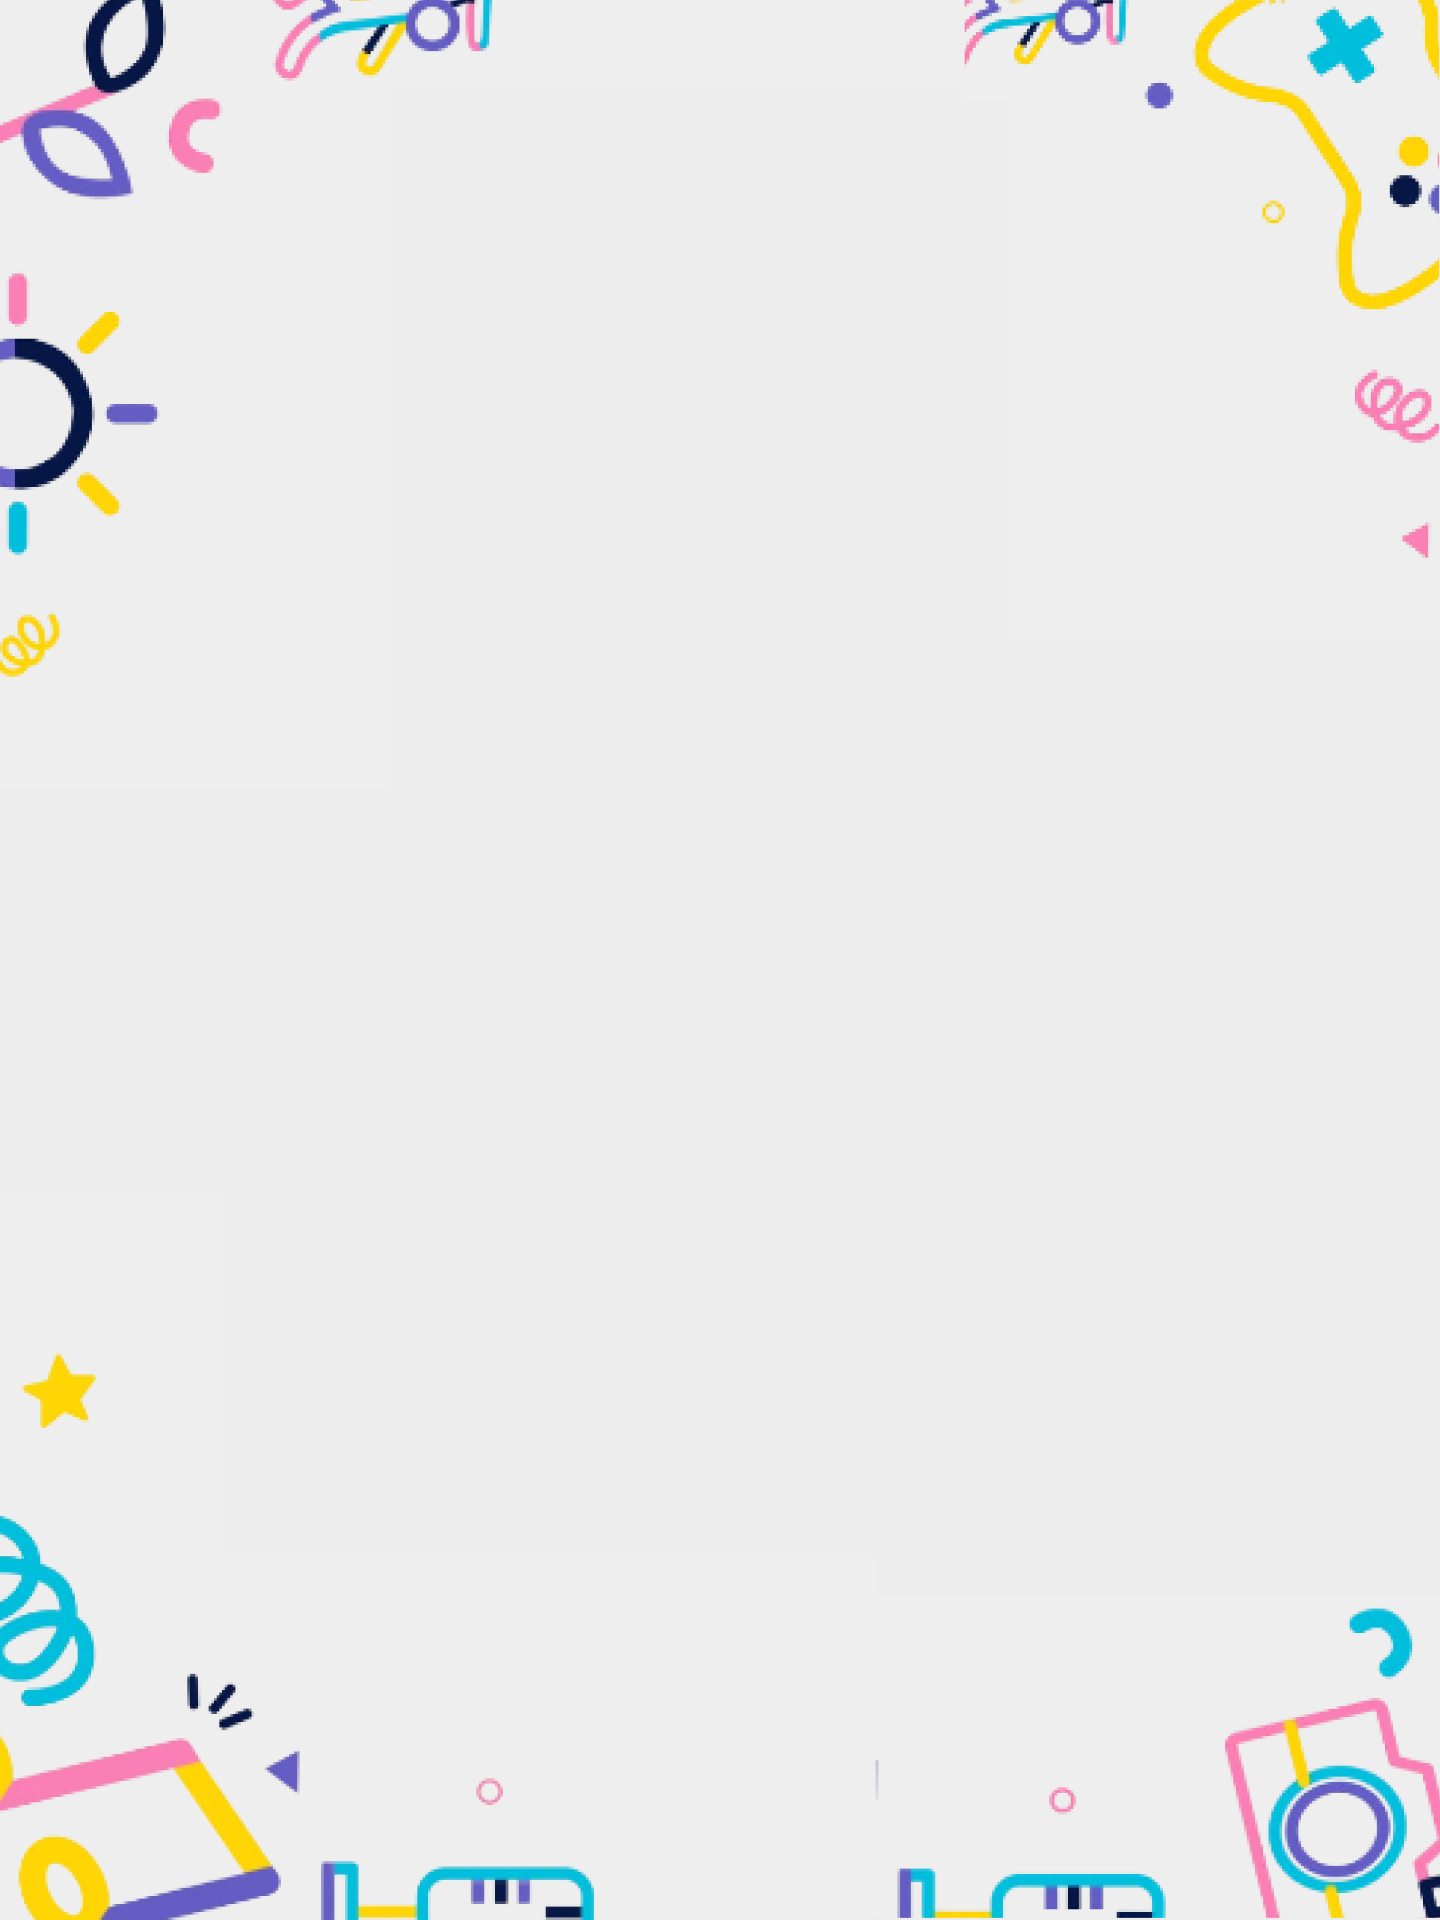
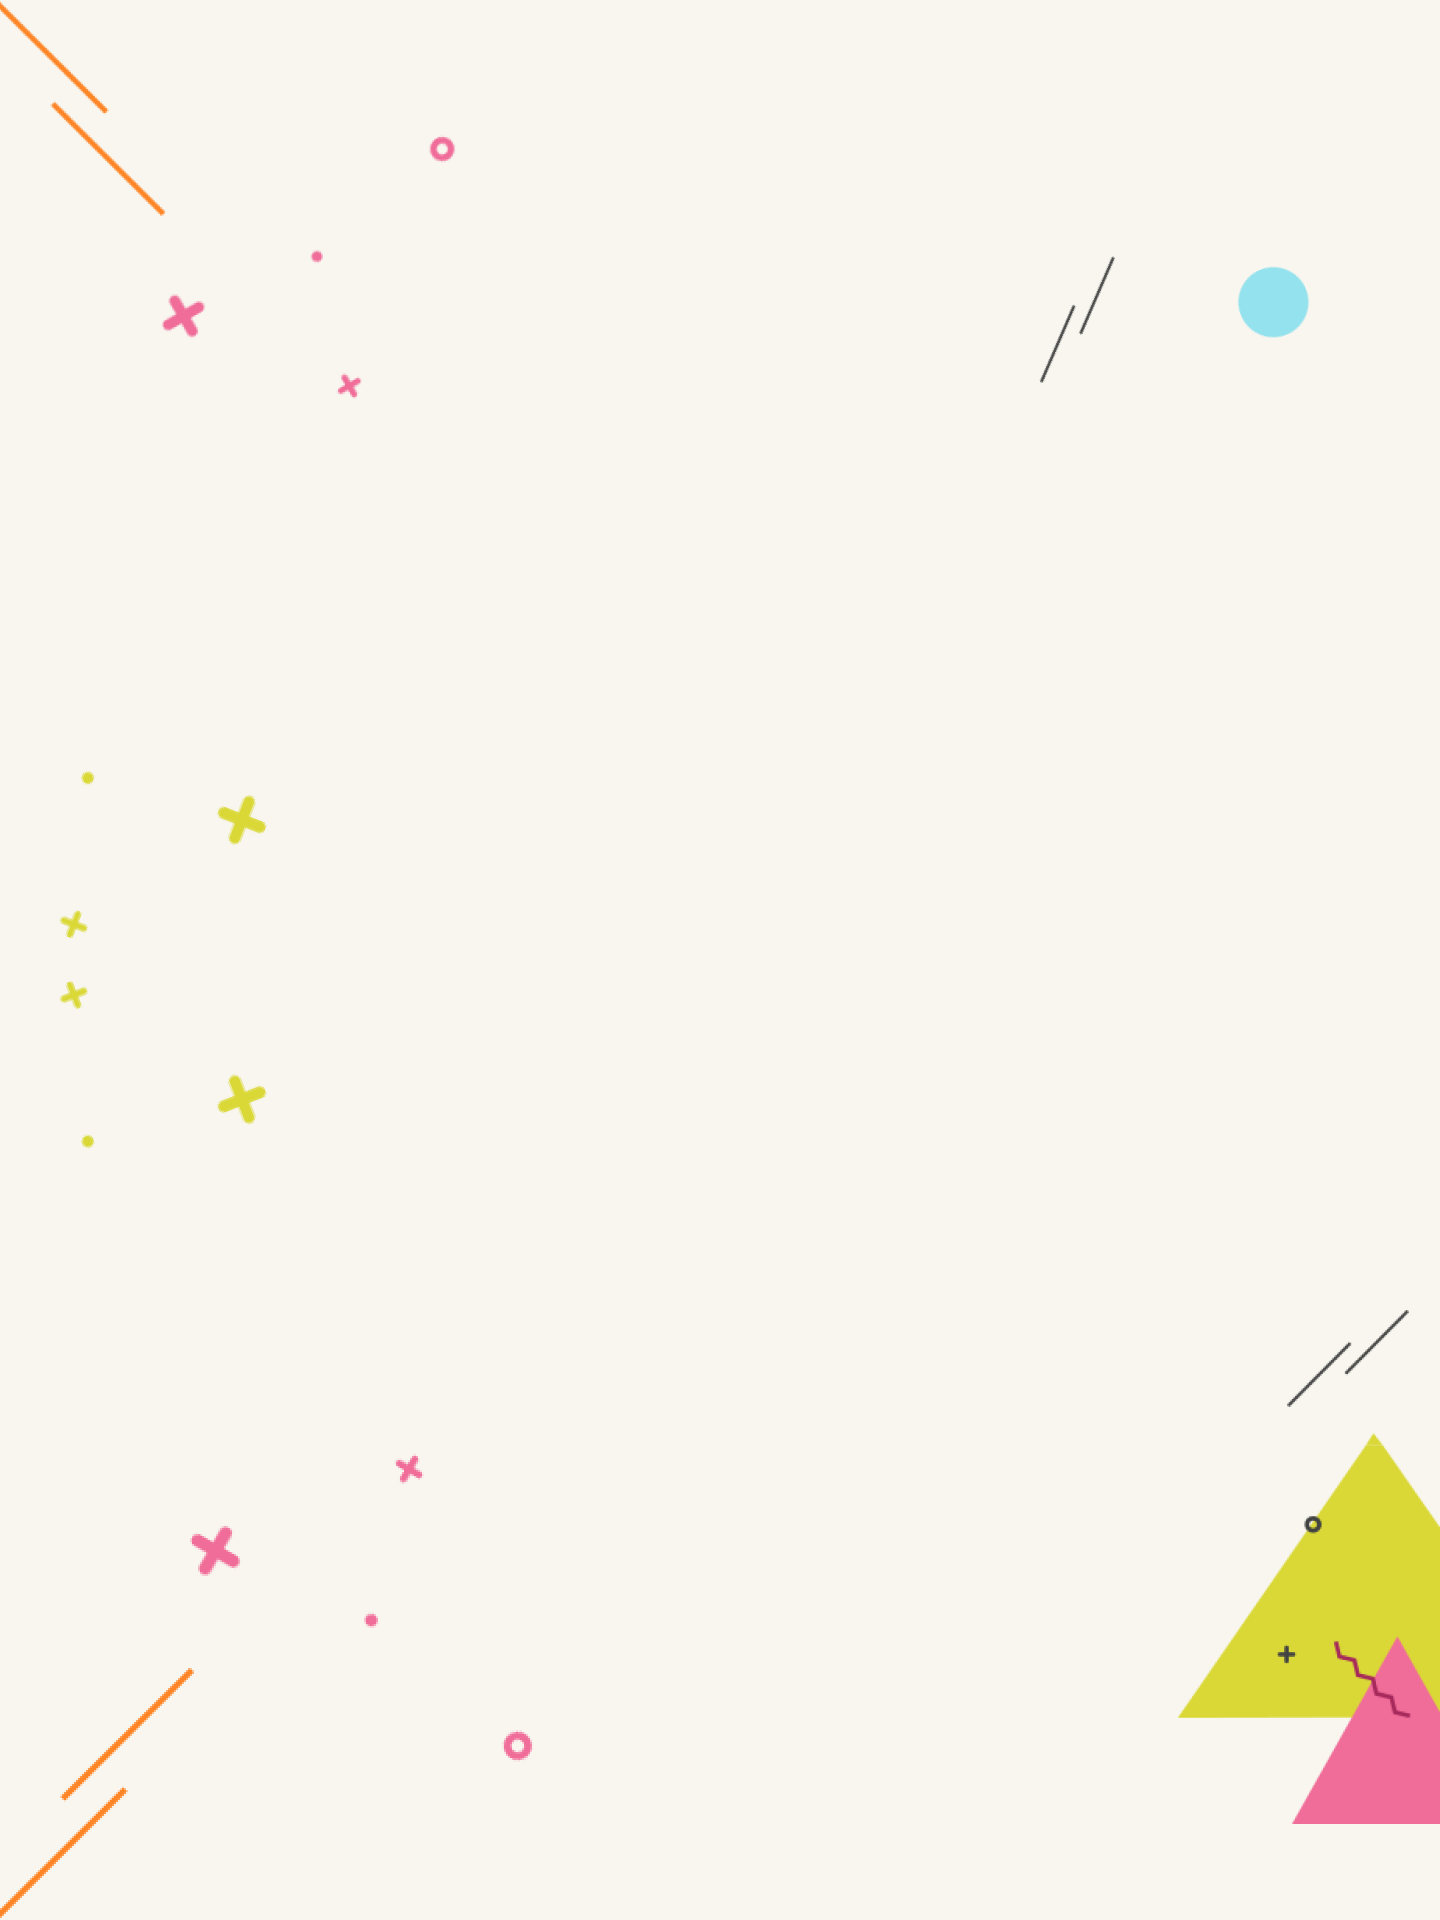
updated login page

diff --git a/assets/scss/organisms/_new-login.scss b/assets/scss/organisms/_new-login.scss
@@ -2,16 +2,20 @@
     display: flex;
     width: 100%;
     min-height: 100vh;
+    background-color: #F8F6EF;
     &__left {
         width: 50%;
     }
     &__leftimg {
         width: 100%;
         img {
-            width: 100%;
+            height: 100vh;
         }
     }
     &__right {
+        display: flex;
+        flex-direction: column;
+        justify-content: center;
         width: 50%;
         background-position: center;
         background-repeat: no-repeat;
@@ -19,14 +23,14 @@
     }
     &__scapelogo {
         width: 180px;
-        margin: 70px auto;
+        margin: 0 auto 40px;
         img {
             width: 100%;
         }
     }
     &__footertxt {
         text-align: center;
-        margin-top: 60px;
+        margin-top: 40px;
         font-size: 14px;
         font-weight: 600;
         color: #666262;
@@ -37,6 +41,7 @@
     .sc-nwlogin {
         &__leftimg {
             img {
+                width: 100%;
                 min-height: 100vh;
             }
         }
@@ -46,12 +51,13 @@
 @include tablet {
     .sc-nwlogin {
         &__left {
-            width: 0;
+            display: none;
         }
         &__right {
             width: 100%;
             display: flex;
             flex-direction: column;
+            justify-content: flex-start;
         }
         &__scapelogo {
             margin: 30% auto 30px;
@@ -64,17 +70,19 @@
 @include mobile {
     .sc-nwlogin {
         &__left {
-            width: 0;
+            display: none;
         }
         &__right {
             width: 100%;
+            justify-content: flex-start;
         }
         &__scapelogo {
             width: 130px;
             margin: 50px auto 30px;
         }
         &__footertxt {
-            margin-top: 30px;
+            font-size: 12px;
+            margin-top: 50px;
         }
     }
 }

diff --git a/assets/scss/organisms/_login-page.scss b/assets/scss/organisms/_login-page.scss
@@ -35,10 +35,11 @@
 
     &__logincontainer {
         background-color: #f7f7f7;
-        padding: 40px 30px 80px;
+        border: 1px solid #FF8526;
+        padding: 40px 30px;
         width: 100%;
         max-width: 500px;
-        margin: auto;
+        margin: 0 auto;
     }
 
     &__logintitle {
@@ -92,7 +93,7 @@
 
     &__loginbutton {
         font-family: Oswald, Helvetica, Arial, sans-serif;
-        float: right;
+        margin: auto;
         padding: 0.75rem 1.5rem;
         background: transparent;
         border: 2px solid #000;
@@ -213,7 +214,6 @@
 
         &__logincontainer {
             max-width: 300px;
-            padding: 24px 24px 70px;
         }
 
         &__loginbutton {
